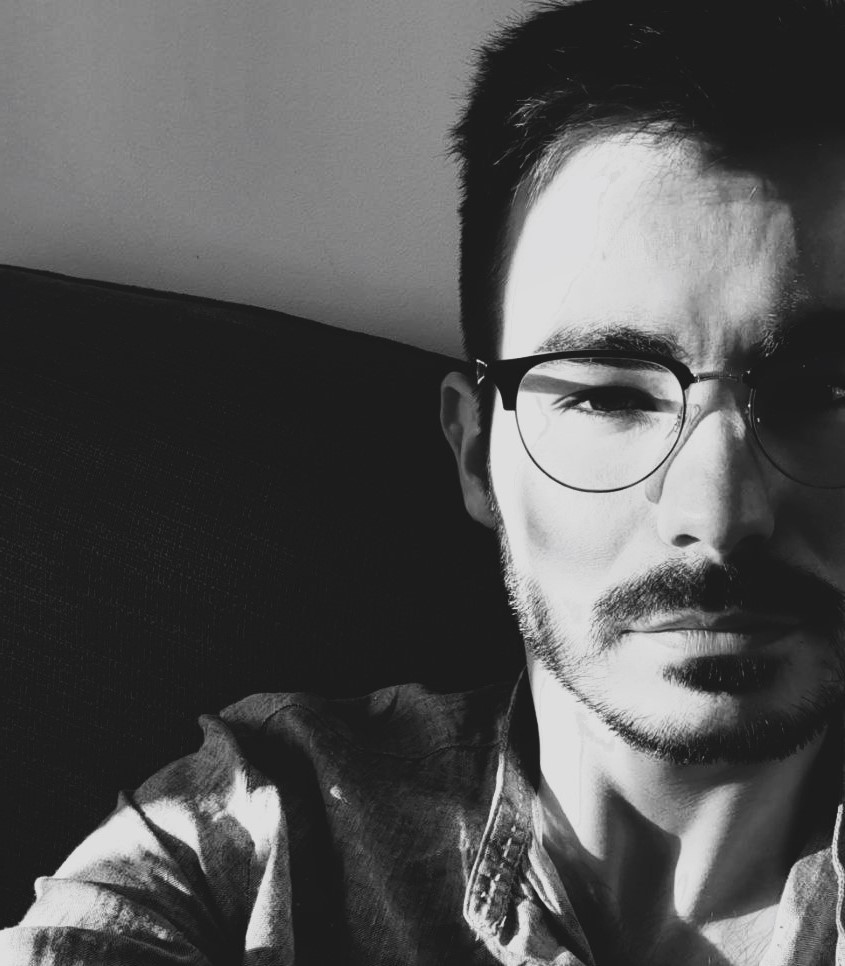
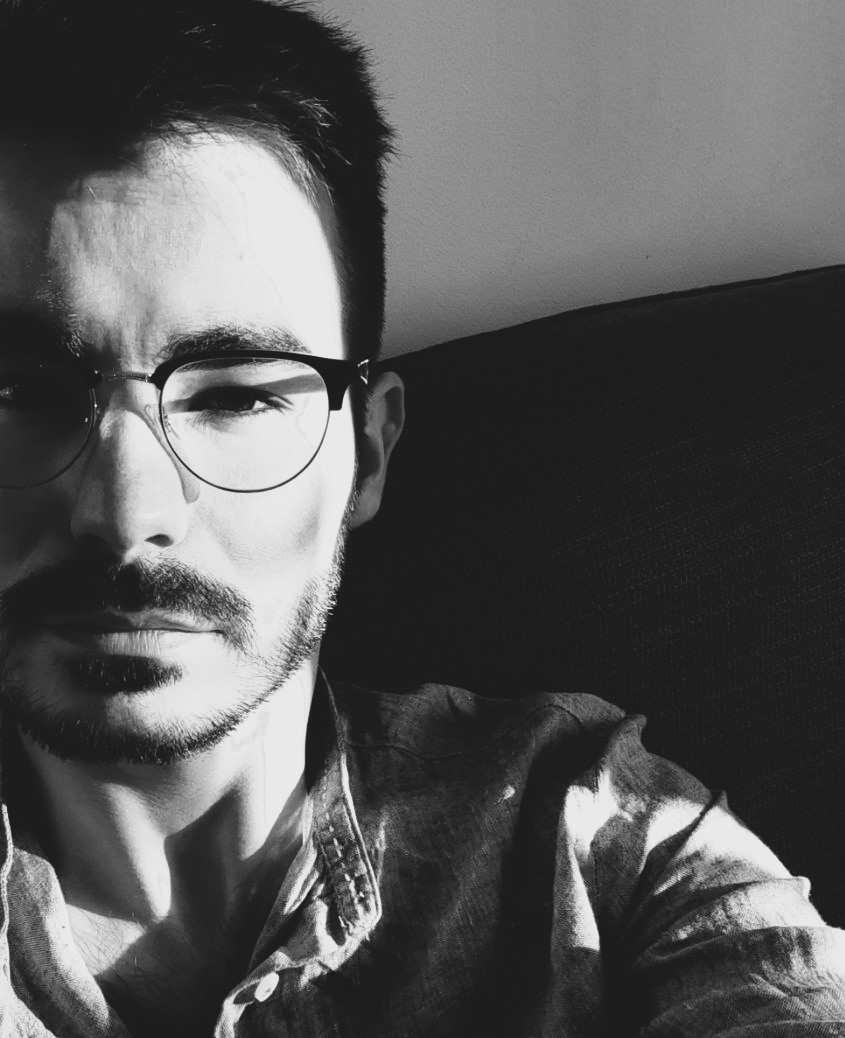
Changes: -Changed position of Navbar and BackGround Matrix direclty to root.render() -Created Contacts and Project pages -Minors Changes

diff --git a/src/components/navbar.js b/src/components/navbar.js
@@ -10,7 +10,7 @@ function NavbarComponent() {
     return (
         <Navbar expand="lg" className="bg-dark" data-bs-theme="dark">
             <Container>
-                <Navbar.Brand href="#home">
+                <Navbar.Brand href="/">
                     <img src={require('../img/bakk-logo.png')} alt="bakk-logo" width="150rem" />
                 </Navbar.Brand>
                 <Navbar.Toggle aria-controls="basic-navbar-nav" />
@@ -18,11 +18,11 @@ function NavbarComponent() {
                     <Nav className="me-auto">
                     </Nav>
                     <Nav>
-                        <Nav.Link href="#Home">Home</Nav.Link>
-                        <Nav.Link eventKey={2} href="#Projects">
+                        <Nav.Link href="/">Home</Nav.Link>
+                        <Nav.Link eventKey={2} href="Projects">
                             Projects
                         </Nav.Link>
-                        <Nav.Link eventKey={3} href="#Contact">
+                        <Nav.Link eventKey={3} href="Contacts">
                             Contact
                         </Nav.Link>
                     </Nav>

diff --git a/src/index.js b/src/index.js
@@ -8,11 +8,43 @@ import 'bootstrap';
 import 'bootstrap/dist/js/bootstrap.js';
 
 
+import Navbar from './components/navbar'
+
+import { Contacts } from './pages/Contacts';
+import { Projects } from './pages/Project';
+import MatrixRain from './components/MatrixRain'
+import ErrorPage from './pages/ErrorPage';
+
+//https://reactrouter.com/en/6.21.1
+import {
+  createBrowserRouter,
+  RouterProvider,
+} from "react-router-dom";
+
+const router = createBrowserRouter([
+  {
+    path: "/",
+    element: <App />,
+    errorElement: <ErrorPage />,
+  },
+  {
+    path: "Contacts/",
+    element: <Contacts />,
+  },
+  {
+    path: "Projects/",
+    element: <Projects />,
+  },
+]);
+
+
 
 const root = ReactDOM.createRoot(document.getElementById('root'));
 root.render(
   <React.StrictMode>
-    <App />
+    <MatrixRain />
+    <Navbar />
+    <RouterProvider router={router} />
   </React.StrictMode>
 );
 

diff --git a/src/components/BoxComponent.js b/src/components/BoxComponent.js
@@ -13,6 +13,7 @@ const BoxComponent = () => {
         position: 'relative',
         margin: 'auto',
         marginTop: '1.5em',
+        marginBottom: '1.5em',
         backgroundColor: '#212529',
         color: '#F2F2F2',
         padding: '2em',
@@ -42,7 +43,7 @@ const BoxComponent = () => {
                     </div>
                 </Col>
                 <Col id='box-image'>
-                    <Image src={require('./me-black-and-white.jpg')} rounded width={'98%'} />
+                    <Image src={require('../img/me-black-and-white.jpg')} rounded width={'94%'} />
                 </Col>
             </Row>
         </Container >

diff --git a/src/Routes.js b/src/Routes.js
@@ -1,0 +1,17 @@
+import { BrowserRouter as Router, Route } from "react-router-dom";
+import { Projects } from "./pages/Project";
+import { Contacts } from "./pages/Contacts";
+
+
+export const Routes = () => {
+    return (
+        <Router>
+            <Route path="/">
+                <Projects />
+            </Route>
+            <Route path="Contacts">
+                <Contacts />
+            </Route>
+        </Router>
+    );
+}

diff --git a/src/pages/ErrorPage.js b/src/pages/ErrorPage.js
@@ -1,0 +1,16 @@
+import { useRouteError } from "react-router-dom";
+
+export default function ErrorPage() {
+    const error = useRouteError();
+    console.error(error);
+
+    return (
+        <div id="error-page">
+            <h1>Oops!</h1>
+            <p>Sorry, an unexpected error has occurred.</p>
+            <p>
+                <i>{error.statusText || error.message}</i>
+            </p>
+        </div>
+    );
+}

diff --git a/src/App.js b/src/App.js
@@ -1,9 +1,8 @@
+
 /// STYLE ///
 import './App.css';
 
 /// COMPONENTS ///
-import Navbar from './components/navbar'
-import MatrixRain from './components/MatrixRain'
 import BoxComponent from './components/BoxComponent';
 
 
@@ -11,10 +10,7 @@ function App() {
 
   return (
     <>
-      <MatrixRain />
-      <Navbar />
       <BoxComponent />
-
     </>
   );
 }

diff --git a/src/components/MatrixRain.jsx b/src/components/MatrixRain.jsx
@@ -13,7 +13,7 @@ const MIN_INTERVAL_DELAY = 300;
 const MAX_INTERVAL_DELAY = 800;
 
 const MIN_DELAY_BETWEEN_STREAMS = 0;
-const MAX_DELAY_BETWEEN_STREAMS = 8000;
+const MAX_DELAY_BETWEEN_STREAMS = 0;
 
 const getRandInRange = (min, max) =>
 	Math.floor(Math.random() * (max - min)) + min;

diff --git a/src/pages/Contacts.js b/src/pages/Contacts.js
@@ -1,0 +1,10 @@
+/// COMPONENTS ///
+
+export const Contacts = () => {
+    return (
+        <>
+            <h1> Contacts </h1>
+        </>
+
+    );
+}

diff --git a/src/pages/Project.js b/src/pages/Project.js
@@ -1,0 +1,9 @@
+/// COMPONENTS ///
+
+export const Projects = () => {
+    return (
+        <>
+            <h1> projects </h1>
+        </>
+    );
+}

diff --git a/src/my-css/box-component.css b/src/my-css/box-component.css
@@ -3,6 +3,7 @@
     line-height: '2em';
     font-size: 85px;
     font-weight: 'normal';
+    margin-left: 0.2em;
 }
 
 #presentation {
